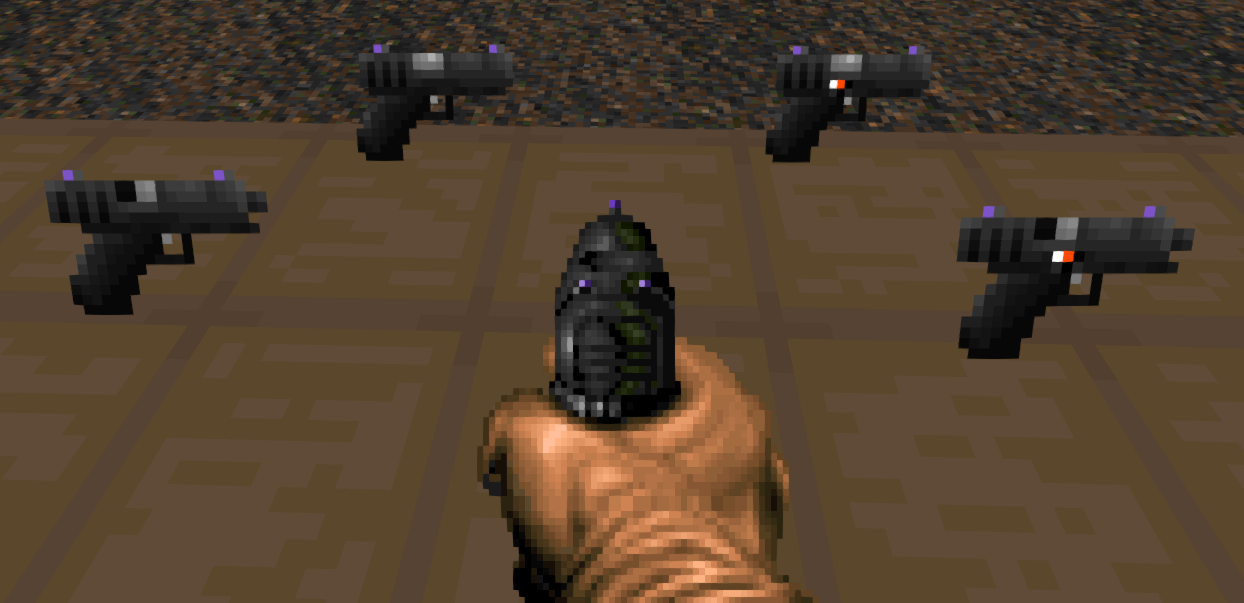
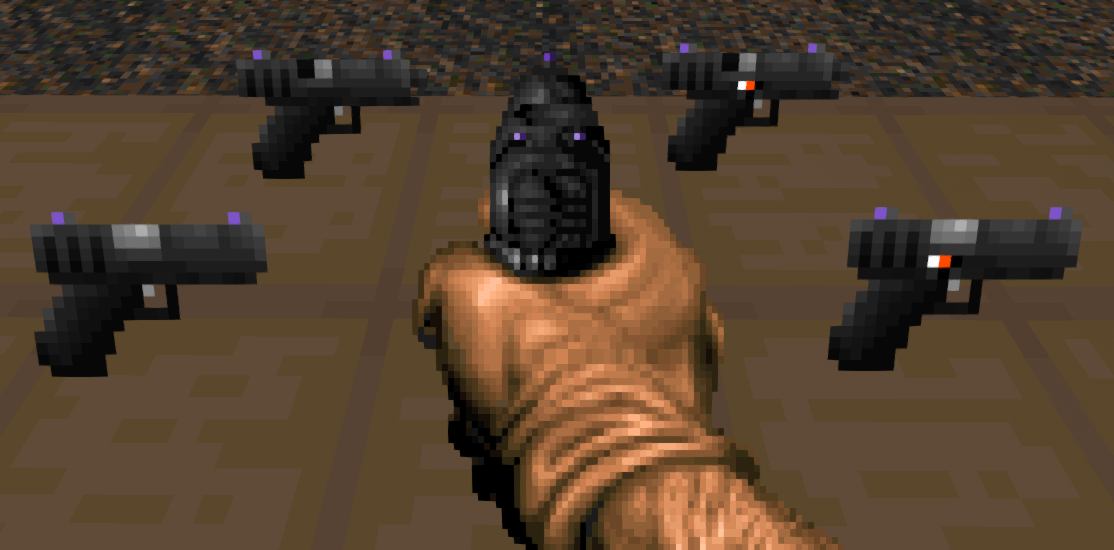
Update Pistol Replacement Sprites
The new sprites are based on the recolored Glock18 by Toast, along with the Pistol Mag sprites.
It's also worth noting that the D and E frames have been removed as the current weapon class doesn't utilize them.

diff --git a/readme.md b/readme.md
@@ -37,7 +37,7 @@ The pistol has been swapped out with Glock18 sprites, then recolored to match th
 ![pistol](./screenshots/pistol.png)  
 ![hush-puppy](./screenshots/hush-puppy.png)  
 _Credits:  
-HUD Sprites: JoeyTD & Minigunner ([Realm667](https://www.realm667.com/en/armory-mainmenu-157-97317/doom-style-mainmenu-158-94349/996-glock-18))  
+HUD Sprites: Toast, JoeyTD & Minigunner ([Realm667](https://www.realm667.com/en/armory-mainmenu-157-97317/doom-style-mainmenu-158-94349/996-glock-18))  
 Silencer: Swampyrad  
 Pickup Sprites: Toast  
 Fireselect Graphic: Combine Kegan_
